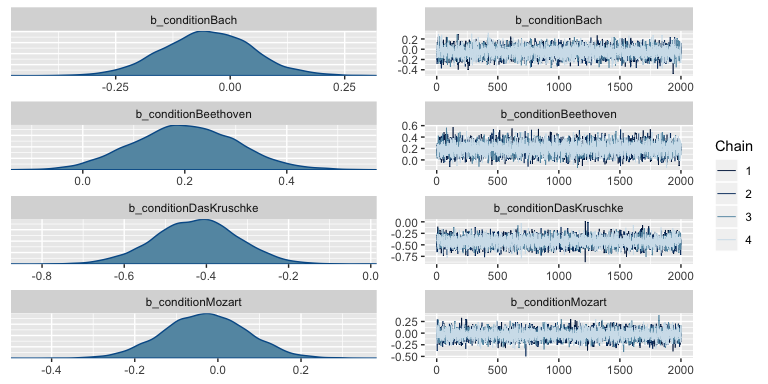
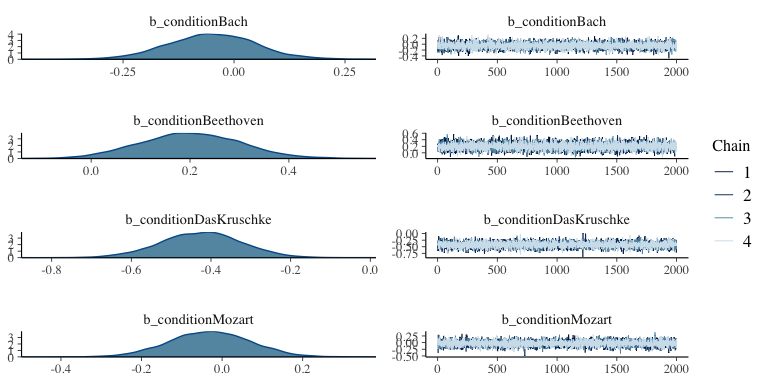
12, version 0.9.2—update for bayesplot 1.6.0 and tidybayes 1.0.1

diff --git a/12.md b/12.md
@@ -1,7 +1,7 @@
 Chapter 12. Bayesian Approaches to Testing a Point ('Null') Hypothesis
 ================
 A Solomon Kurz
-2018-08-04
+2018-08-12
 
 Bayesian Approaches to Testing a Point ("Null") Hypothesis
 ==========================================================
@@ -254,7 +254,7 @@ coef_small %>%
                  fill = "grey67", color = "grey92", 
                  size = .2, bins = 50) +
   stat_pointintervalh(aes(x = value, y = 0), 
-                      point_interval = mode_hdi, .prob = .95) +
+                      point_interval = mode_hdi, .width = .95) +
   scale_y_continuous(NULL, breaks = NULL) +
   labs(x = expression(theta)) +
   theme(panel.grid = element_blank(),
@@ -314,7 +314,7 @@ fitted_players %>%
                  fill = "grey67", color = "grey92", 
                  size = .2, bins = 50) +
   stat_pointintervalh(aes(x = `ShinSoo Choo - Ichiro Suzuki`, y = 0), 
-                      point_interval = mode_hdi, .prob = .95) +
+                      point_interval = mode_hdi, .width = .95) +
   scale_y_continuous(NULL, breaks = NULL) +
   labs(title = "ShinSoo Choo - Ichiro Suzuki",
        x = expression(theta)) +
@@ -364,7 +364,7 @@ d %>%
   geom_histogram(fill = "grey67", color = "grey92", 
                  size = .2, bins = 30) +
   stat_pointintervalh(aes(y = 0), 
-                      point_interval = mode_hdi, .prob = .95) +
+                      point_interval = mode_hdi, .width = .95) +
   scale_y_continuous(NULL, breaks = NULL) +
   labs(x = expression(theta)) +
   theme(panel.grid = element_blank()) +
@@ -423,7 +423,7 @@ d %>%
   geom_histogram(fill = "grey67", color = "grey92", 
                  size = .2, bins = 30) +
   stat_pointintervalh(aes(y = 0), 
-                      point_interval = mode_hdi, .prob = .95) +
+                      point_interval = mode_hdi, .width = .95) +
   scale_y_continuous(NULL, breaks = NULL) +
   labs(x = expression(theta)) +
   theme(panel.grid = element_blank()) +
@@ -560,8 +560,8 @@ tibble(x = seq(from = 0, to = 40, by = .1)) %>%
     y = c(.004, .012),
     label = c("95% ETI", "95% HDI"),
     interval = c("eti", "hdi")
-  ),
-  aes(y = y, color = interval, label = label)) +
+    ),
+    aes(y = y, color = interval, label = label)) +
   scale_color_manual(values = c("black", "white")) +
   scale_y_continuous(NULL, breaks = NULL) +
   coord_cartesian(xlim = 0:35) +
@@ -885,7 +885,7 @@ grid.arrange(plot_1, plot_2, plot_3)
 How do we compute the BF?
 
 ``` r
-theta <- .5
+theta   <- .5
 epsilon <- .01
 a <- epsilon
 b <- epsilon
@@ -1086,7 +1086,7 @@ post %>%
   geom_histogram(color = "grey92", fill = "grey67",
                  binwidth = .01, size = .2) +
   stat_pointintervalh(aes(y = 0),
-                      point_interval = mode_hdi, .prob = .95) +
+                      point_interval = mode_hdi, .width = .95) +
   scale_y_continuous(NULL, breaks = NULL) +
   coord_cartesian(xlim = c(-.25, .25)) +
   theme(panel.grid = element_blank()) +
@@ -1105,16 +1105,15 @@ post %>%
   mutate_if(is.double, round, digits = 3)
 ```
 
-    ## # A tibble: 6 x 5
-    ## # Groups:   key [6]
-    ##   key                value conf.low conf.high .prob
-    ##   <chr>              <dbl>    <dbl>     <dbl> <dbl>
-    ## 1 theta_1 - theta_2 -0.098   -0.165    -0.03   0.95
-    ## 2 theta_1 - theta_3 -0.088   -0.16     -0.026  0.95
-    ## 3 theta_1 - theta_4 -0.149   -0.224    -0.088  0.95
-    ## 4 theta_2 - theta_3  0.002   -0.064     0.073  0.95
-    ## 5 theta_2 - theta_4 -0.056   -0.125     0.014  0.95
-    ## 6 theta_3 - theta_4 -0.062   -0.13      0.007  0.95
+    ## # A tibble: 6 x 7
+    ##   key                value .lower .upper .width .point .interval
+    ##   <chr>              <dbl>  <dbl>  <dbl>  <dbl> <chr>  <chr>    
+    ## 1 theta_1 - theta_2 -0.098 -0.165 -0.03    0.95 mode   hdi      
+    ## 2 theta_1 - theta_3 -0.088 -0.16  -0.026   0.95 mode   hdi      
+    ## 3 theta_1 - theta_4 -0.149 -0.224 -0.088   0.95 mode   hdi      
+    ## 4 theta_2 - theta_3  0.002 -0.064  0.073   0.95 mode   hdi      
+    ## 5 theta_2 - theta_4 -0.056 -0.125  0.014   0.95 mode   hdi      
+    ## 6 theta_3 - theta_4 -0.062 -0.13   0.007   0.95 mode   hdi
 
 The lower portion of Figure 12.5 is a mystery, to me. Here's a trace plot instead.
 
@@ -1198,11 +1197,10 @@ sessionInfo()
     ## [1] stats     graphics  grDevices utils     datasets  methods   base     
     ## 
     ## other attached packages:
-    ##  [1] gridExtra_2.3         tidybayes_0.12.1.9000 brms_2.4.0           
-    ##  [4] Rcpp_0.12.18          bindrcpp_0.2.2        forcats_0.3.0        
-    ##  [7] stringr_1.3.1         dplyr_0.7.6           purrr_0.2.5          
-    ## [10] readr_1.1.1           tidyr_0.8.1           tibble_1.4.2         
-    ## [13] ggplot2_3.0.0         tidyverse_1.2.1      
+    ##  [1] gridExtra_2.3   tidybayes_1.0.1 brms_2.4.0      Rcpp_0.12.18   
+    ##  [5] bindrcpp_0.2.2  forcats_0.3.0   stringr_1.3.1   dplyr_0.7.6    
+    ##  [9] purrr_0.2.5     readr_1.1.1     tidyr_0.8.1     tibble_1.4.2   
+    ## [13] ggplot2_3.0.0   tidyverse_1.2.1
     ## 
     ## loaded via a namespace (and not attached):
     ##  [1] nlme_3.1-137              matrixStats_0.54.0       
@@ -1232,7 +1230,7 @@ sessionInfo()
     ## [49] zoo_1.8-2                 jsonlite_1.5             
     ## [51] crosstalk_1.0.0           gtools_3.8.1             
     ## [53] inline_0.3.15             magrittr_1.5             
-    ## [55] loo_2.0.0                 bayesplot_1.5.0          
+    ## [55] loo_2.0.0                 bayesplot_1.6.0          
     ## [57] Matrix_1.2-14             munsell_0.5.0            
     ## [59] abind_1.4-5               stringi_1.2.3            
     ## [61] yaml_2.1.19               MASS_7.3-50              
